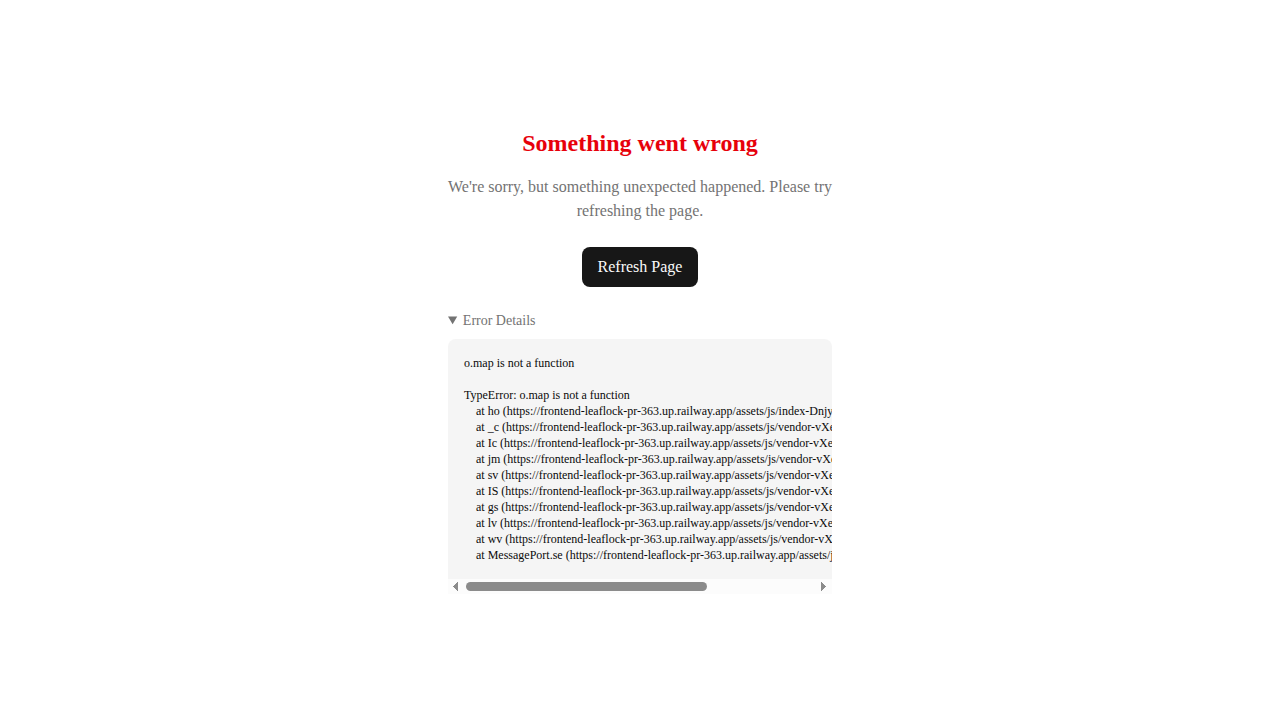
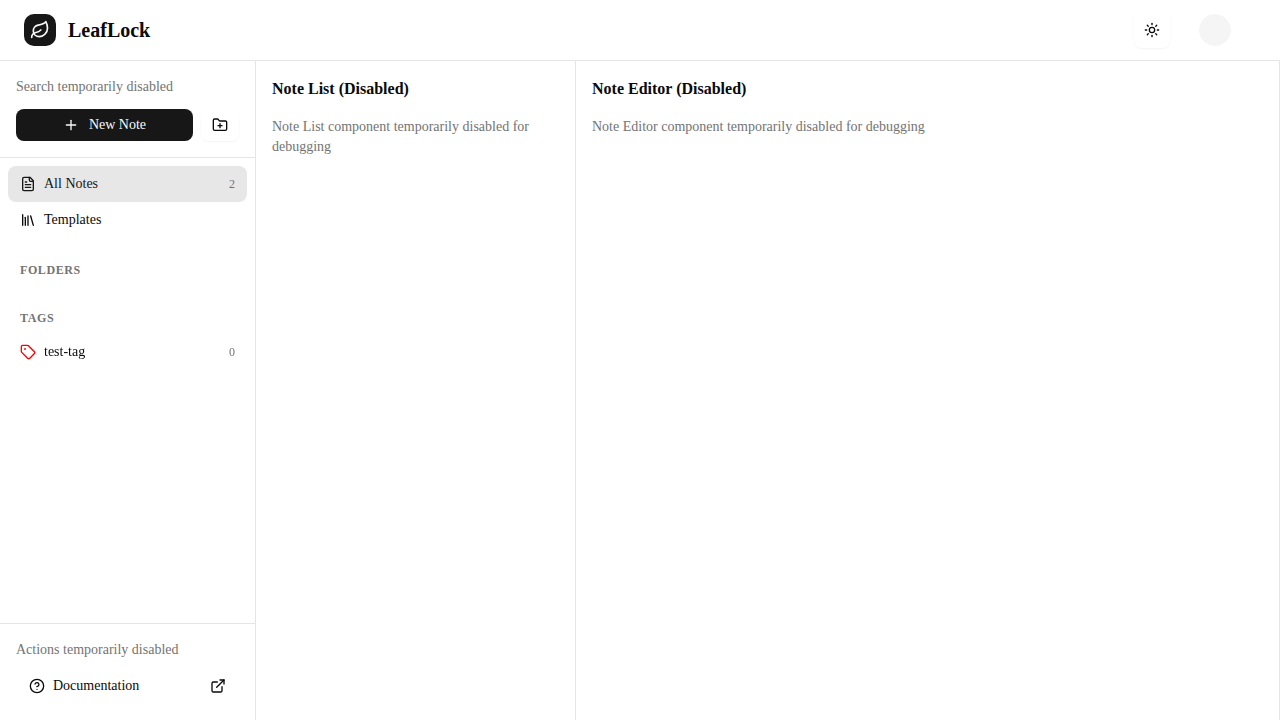
debug(frontend): enable SearchBar component to test if it causes the error
- Enable SearchBar component while keeping ExportImportDialog and TrashDialog disabled
- This will help identify if SearchBar is the source of the .map() error

diff --git a/frontend/playwright-report/index.html b/frontend/playwright-report/index.html
@@ -82,4 +82,4 @@ Error generating stack: `+n.message+`
     <div id='root'></div>
   </body>
 </html>
[2 lines of base64/hex data omitted]

diff --git a/frontend/src/components/dashboard/sidebar.tsx b/frontend/src/components/dashboard/sidebar.tsx
@@ -33,7 +33,7 @@ import {
 } from '@/components/ui/dialog'
 import { Label } from '@/components/ui/label'
 import { TemplatesDialog } from './templates-dialog'
-// import { SearchBar } from './search-bar'
+import { SearchBar } from './search-bar'
 // import { ExportImportDialog } from './export-import-dialog'
 // import { TrashDialog } from './trash-dialog'
 
@@ -103,8 +103,7 @@ export function Sidebar() {
     <div className="w-64 border-r border-border bg-card flex flex-col h-full">
       {/* Search */}
       <div className="p-4 border-b border-border space-y-3">
-        {/* <SearchBar /> */}
-        <div className="text-sm text-muted-foreground">Search temporarily disabled</div>
+        <SearchBar />
 
         <div className="flex gap-2">
           <Button
